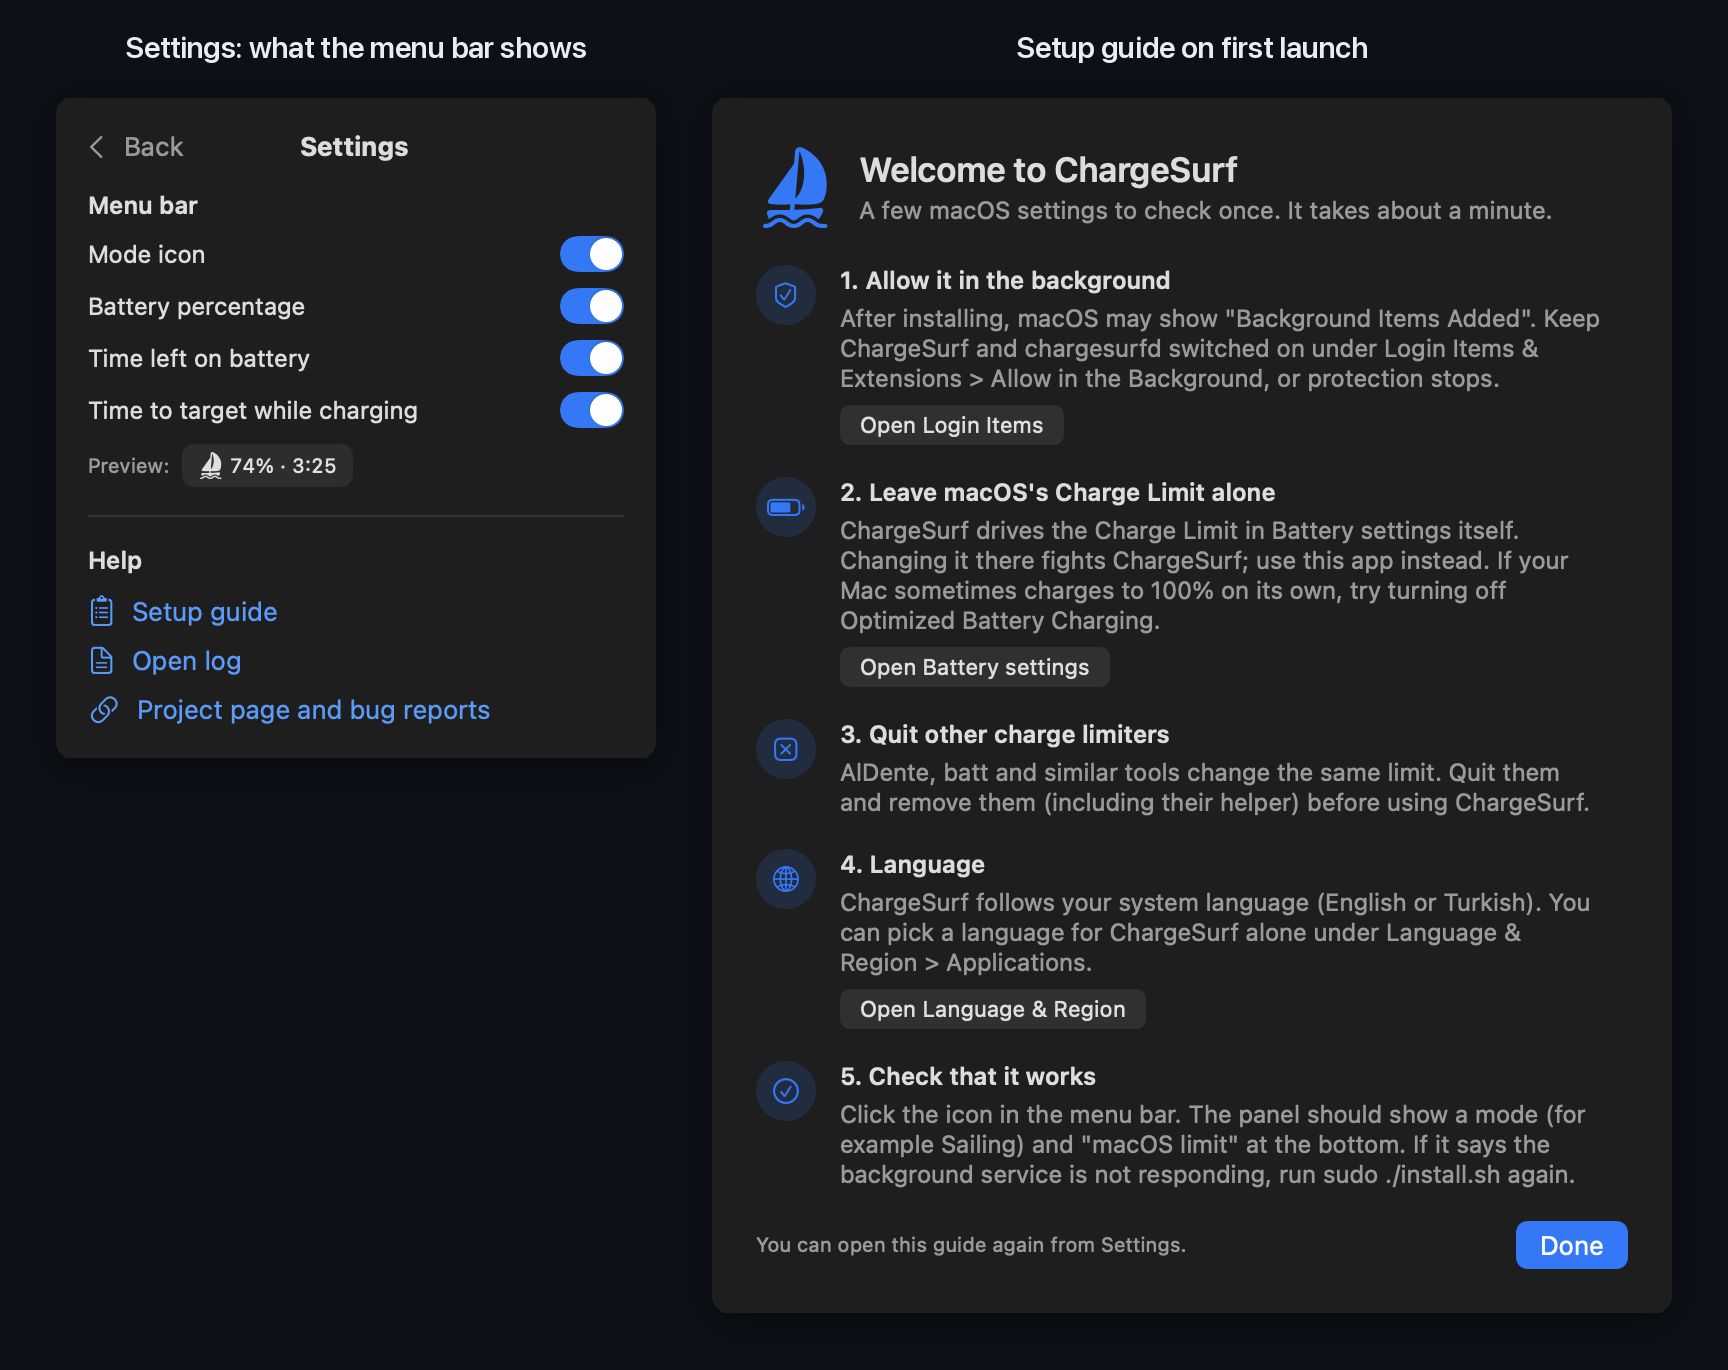
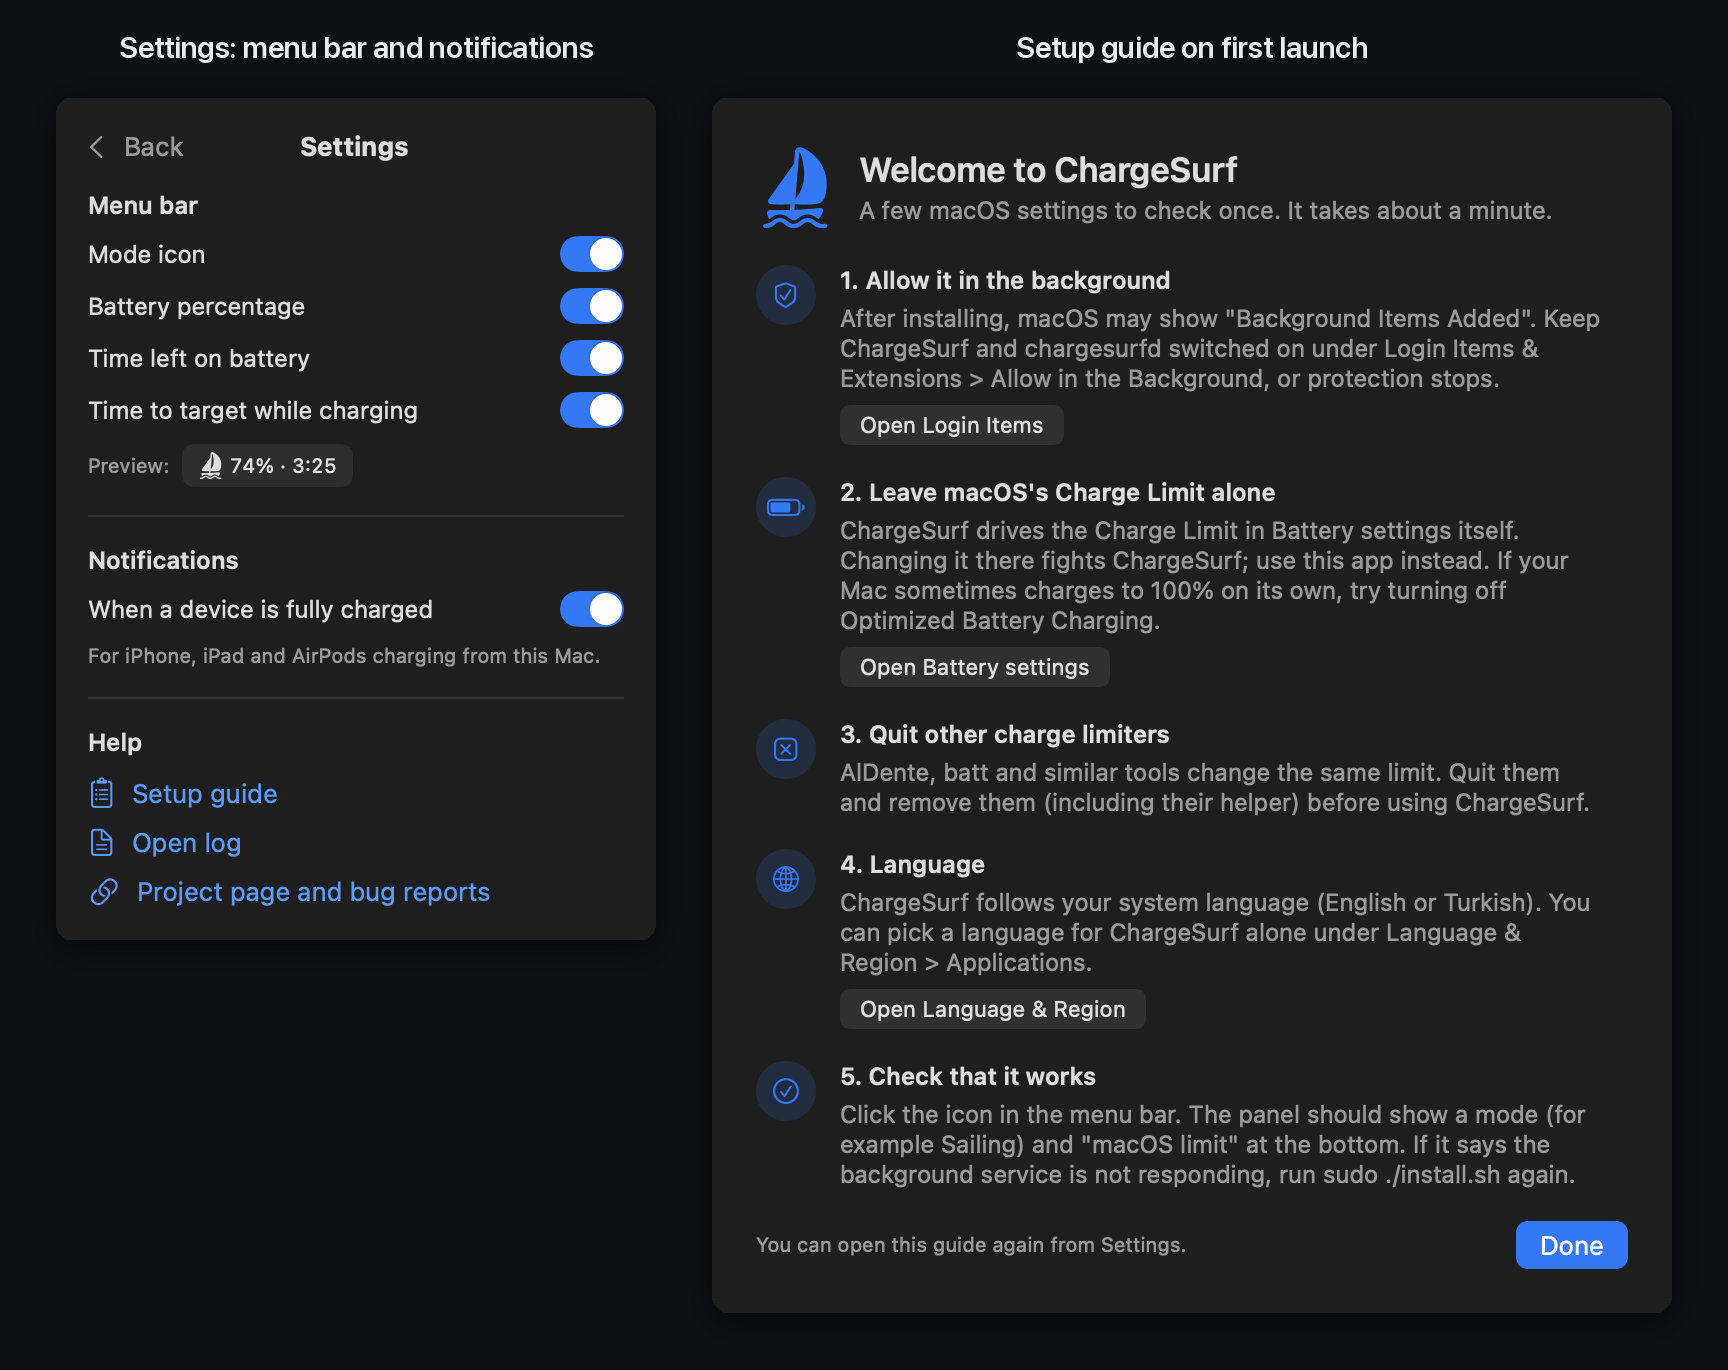
Notify when a device on USB-C is fully charged
A notification when an iPhone, iPad or AirPods case charging from the Mac
reaches full, once per charge (devices plugged in already full do not
notify). On by default; a switch in Settings turns it off.

Changed region(s): [[0.0312, 0.3985, 0.375, 0.6745], [0.0625, 0.0307, 0.3438, 0.0613]]

diff --git a/src/ChargeSurfApp.swift b/src/ChargeSurfApp.swift
@@ -12,6 +12,7 @@ import Darwin
 import IOKit
 import IOKit.ps
 import SwiftUI
+import UserNotifications
 
 let configPath = "/Library/Application Support/ChargeSurf/config"
 let statusPath = "/Library/Application Support/ChargeSurf/status"
@@ -88,6 +89,35 @@ enum Pref {
     static let onboardingDone = "onboarding.done"
     static let chargeRate = "battery.chargeRateMA"
     static let tab = "panel.tab"
+    static let notifyFull = "devices.notifyFull"
+}
+
+// MARK: - Notifications
+
+/// "Fully charged" notifications for devices on the USB-C ports.
+final class Notifier: NSObject, UNUserNotificationCenterDelegate {
+    static let shared = Notifier()
+    static var enabled: Bool { UserDefaults.standard.object(forKey: Pref.notifyFull) as? Bool ?? true }
+
+    func setUp() {
+        let c = UNUserNotificationCenter.current()
+        c.delegate = self
+        if Notifier.enabled { c.requestAuthorization(options: [.alert, .sound]) { _, _ in } }
+    }
+
+    func deviceFull(_ name: String, id: String) {
+        let content = UNMutableNotificationContent()
+        content.title = L("%@ is fully charged", name)
+        content.body = L("You can unplug it from your Mac.")
+        content.sound = .default
+        UNUserNotificationCenter.current().add(UNNotificationRequest(identifier: "full-\(id)", content: content, trigger: nil))
+    }
+
+    // Show the banner even if ChargeSurf's panel happens to be open.
+    func userNotificationCenter(_ center: UNUserNotificationCenter, willPresent notification: UNNotification,
+                                withCompletionHandler done: @escaping (UNNotificationPresentationOptions) -> Void) {
+        done([.banner, .sound])
+    }
 }
 
 // MARK: - Power: charger, consumption and history
@@ -571,12 +601,14 @@ final class Model: ObservableObject {
     private let live: Bool
     private var monitor: DeviceMonitor?
     private var levelHistory: [String: [(t: Double, p: Int)]] = [:]
+    private var fullArmed: Set<String> = []      // devices seen below 98%, to notify once when full
     private var lastSave = Date.distantPast
     private var timer: Timer?
 
     init(live: Bool = true) {
         self.live = live
         monitor = live ? DeviceMonitor() : nil
+        if live { Notifier.shared.setUp() }
         samples = PowerLog.load()          // read-only in --preview; recording needs live
         refresh()
         guard live else { return }
@@ -701,6 +733,18 @@ final class Model: ObservableObject {
             levelHistory[r.id] = h
         }
         levelHistory = levelHistory.filter { id, _ in rows.contains { $0.id == id } }
+        // Notify once when a device that was charging below 98% reaches full. Plugging in an
+        // already full device does not notify; unplugging resets.
+        for r in rows {
+            guard let p = r.percent else { continue }
+            let full = r.full || p >= 100
+            if !full && p < 98 {
+                fullArmed.insert(r.id)
+            } else if full, fullArmed.remove(r.id) != nil, live, Notifier.enabled {
+                Notifier.shared.deviceFull(r.name, id: r.id)
+            }
+        }
+        fullArmed = fullArmed.filter { id in rows.contains { $0.id == id } }
         if rows != devices { devices = rows }
     }
 
@@ -1090,6 +1134,7 @@ struct SettingsPage: View {
     @AppStorage(Pref.percent) private var showPercent = true
     @AppStorage(Pref.timeOnBattery) private var showTimeOnBattery = true
     @AppStorage(Pref.timeCharging) private var showTimeCharging = false
+    @AppStorage(Pref.notifyFull) private var notifyFull = true
 
     var body: some View {
         VStack(alignment: .leading, spacing: 14) {
@@ -1117,6 +1162,16 @@ struct SettingsPage: View {
                 .font(.caption)
             }
             .toggleStyle(AppSwitchStyle()).controlSize(.small)
+
+            Divider()
+
+            VStack(alignment: .leading, spacing: 8) {
+                Text(L("Notifications")).font(.callout.weight(.semibold))
+                SwitchRow(title: L("When a device is fully charged"), isOn: $notifyFull)
+                    .onChange(of: notifyFull) { _, on in if on { Notifier.shared.setUp() } }
+                Text(L("For iPhone, iPad and AirPods charging from this Mac."))
+                    .font(.caption).foregroundStyle(.secondary)
+            }
 
             Divider()
 
@@ -1601,6 +1656,13 @@ struct ChargeSurfApp: App {
     init() {
         // --preview out.png [--page main|power|devices|settings|onboarding|menubar] [--dark] [--demo sailing|charging|heat|battery]: render to PNG and exit.
         let args = CommandLine.arguments
+        // --notify-test: ask for permission if needed and show a sample "fully charged" notification.
+        if args.contains("--notify-test") {
+            Notifier.shared.setUp()
+            Notifier.shared.deviceFull("iPhone", id: "test")
+            RunLoop.main.run(until: Date().addingTimeInterval(4))
+            exit(0)
+        }
         if let i = args.firstIndex(of: "--preview"), i + 1 < args.count {
             let path = args[i + 1]
             let dark = args.contains("--dark")

diff --git a/docs/make_images.py b/docs/make_images.py
@@ -155,7 +155,7 @@ def settings_onboarding(theme):
     H = top + max(st.height, ob.height) + gap
     c = Image.new("RGBA", (W, H), bg)
     d = ImageDraw.Draw(c)
-    d.text((gap + st.width // 2, 36), "Settings: what the menu bar shows", font=font(30, "Semibold"), fill=fg, anchor="mt")
+    d.text((gap + st.width // 2, 36), "Settings: menu bar and notifications", font=font(30, "Semibold"), fill=fg, anchor="mt")
     d.text((gap * 2 + st.width + ob.width // 2, 36), "Setup guide on first launch", font=font(30, "Semibold"), fill=fg, anchor="mt")
     a = 60 if not dark else 140
     paste_with_shadow(c, st, (gap, top), radius=18, blur=16, offset=(0, 6), alpha=a)

diff --git a/README.md b/README.md
@@ -22,7 +22,7 @@ Battery charge **surfing** and **heat protection** for Apple Silicon MacBooks on
 - **Time estimates:** how long charging to your upper limit or to 100% would take, and time left on battery. Estimates use the measured charging current (learned below 80%) or, before the first charge, the adapter's power; charging above 80% is assumed to be slower. Treat them as approximate.
 - **Customizable menu bar:** choose what the menu bar shows (mode icon, percentage, time left on battery, time to target while charging) in the app's Settings.
 - **Power tab:** what the Mac uses right now and whether it comes from the adapter or the battery, the average use over the last hour and the last 12 hours with a chart, and the connected charger: the voltages it offers over USB Power Delivery, what your Mac negotiated, and a few checks (headroom for your peak use, voltage steadiness, brand information). The checks only use what the charger reports and how steady it is; they cannot judge safety or build quality.
-- **Devices tab:** what the Mac powers over its USB-C ports, port by port: the watts and voltage going out, and for an iPhone or iPad its charge level, an estimated time to full, the power going into its battery, battery health and cycle count. AirPods in a USB-C case show case, left and right levels while they are connected to the Mac. Adapters and hubs are listed but not counted as charging.
+- **Devices tab:** what the Mac powers over its USB-C ports, port by port: the watts and voltage going out, and for an iPhone or iPad its charge level, an estimated time to full, the power going into its battery, battery health and cycle count. AirPods in a USB-C case show case, left and right levels while they are connected to the Mac. Adapters and hubs are listed but not counted as charging. Optionally, a notification when a device finishes charging (on by default, in Settings).
 - **Setup guide:** opens on first launch (and from Settings) with the macOS settings to check, each with a button that opens the right System Settings pane.
 
 ### The menu bar app
@@ -34,7 +34,7 @@ Battery charge **surfing** and **heat protection** for Apple Silicon MacBooks on
 
 <picture>
   <source media="(prefers-color-scheme: dark)" srcset="docs/images/settings-guide-dark.png">
-  <img alt="The Settings page, where you choose what the menu bar shows, and the setup guide that opens on first launch" src="docs/images/settings-guide-light.png">
+  <img alt="The Settings page, where you choose what the menu bar shows and whether to be notified when a device is fully charged, and the setup guide that opens on first launch" src="docs/images/settings-guide-light.png">
 </picture>
 
 <picture>
@@ -155,7 +155,7 @@ ChargeSurf is not affiliated with Apple, AppHouseKitchen (AlDente) or the batt p
 
 ## Türkçe
 
-ChargeSurf, macOS 27 çalıştıran Apple Silicon MacBook'lar için şarj "surfing" (%60'ın altına inince %80'e kadar şarj, arada şarja dokunmama) ve ısı koruması (batarya 35 °C'ye ulaşınca şarjı durdurma) sağlar. Menü çubuğu uygulaması Türkçe ve İngilizce, sistem diline göre açılır. Panelin **Güç** sekmesi Mac'in anlık tüketimini, son 1 ve 12 saatin ortalamasını ve takılı şarj aletinin bilgilerini (USB-PD voltajları, güç payı, voltaj kararlılığı) gösterir. **Cihazlar** sekmesi Mac'in USB-C portlarından şarj ettiği cihazları gösterir: her portun verdiği watt, iPhone ve iPad için doluluk, tahmini dolma süresi, pil sağlığı ve döngü sayısı, AirPods için kutu, sol ve sağ kulaklık seviyeleri.
+ChargeSurf, macOS 27 çalıştıran Apple Silicon MacBook'lar için şarj "surfing" (%60'ın altına inince %80'e kadar şarj, arada şarja dokunmama) ve ısı koruması (batarya 35 °C'ye ulaşınca şarjı durdurma) sağlar. Menü çubuğu uygulaması Türkçe ve İngilizce, sistem diline göre açılır. Panelin **Güç** sekmesi Mac'in anlık tüketimini, son 1 ve 12 saatin ortalamasını ve takılı şarj aletinin bilgilerini (USB-PD voltajları, güç payı, voltaj kararlılığı) gösterir. **Cihazlar** sekmesi Mac'in USB-C portlarından şarj ettiği cihazları gösterir: her portun verdiği watt, iPhone ve iPad için doluluk, tahmini dolma süresi, pil sağlığı ve döngü sayısı, AirPods için kutu, sol ve sağ kulaklık seviyeleri. İstenirse cihaz tam dolunca bildirim gönderir.
 
 **Deneysel:** Yalnızca tek bir Mac'te (Apple M5, macOS 27.0, 26A428) denendi. Uzun süreli kullanım, uyku döngüleri ve başka Mac'ler test edilmedi. Apple'ın özel bir API'sine dayandığı için macOS güncellemeleriyle bozulabilir. Hata çıkabilir, kullanım sorumluluğu kullanıcıya aittir.
 
